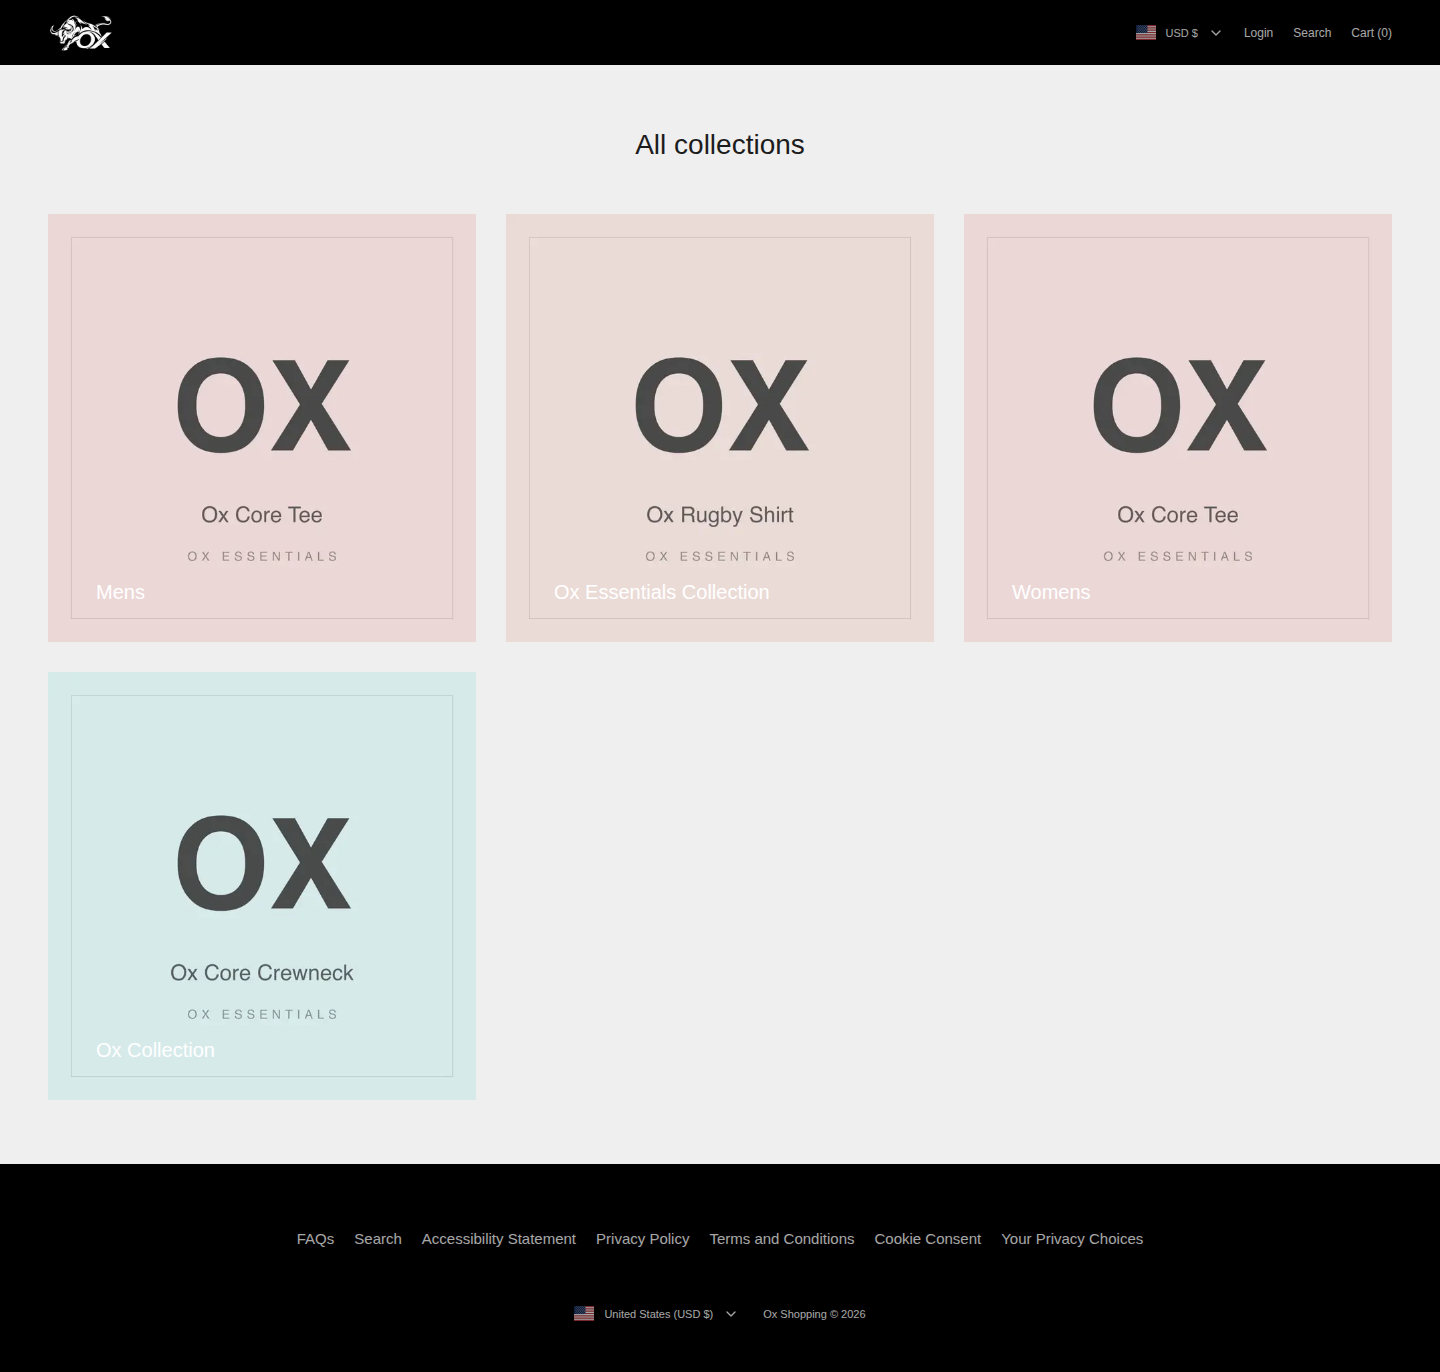
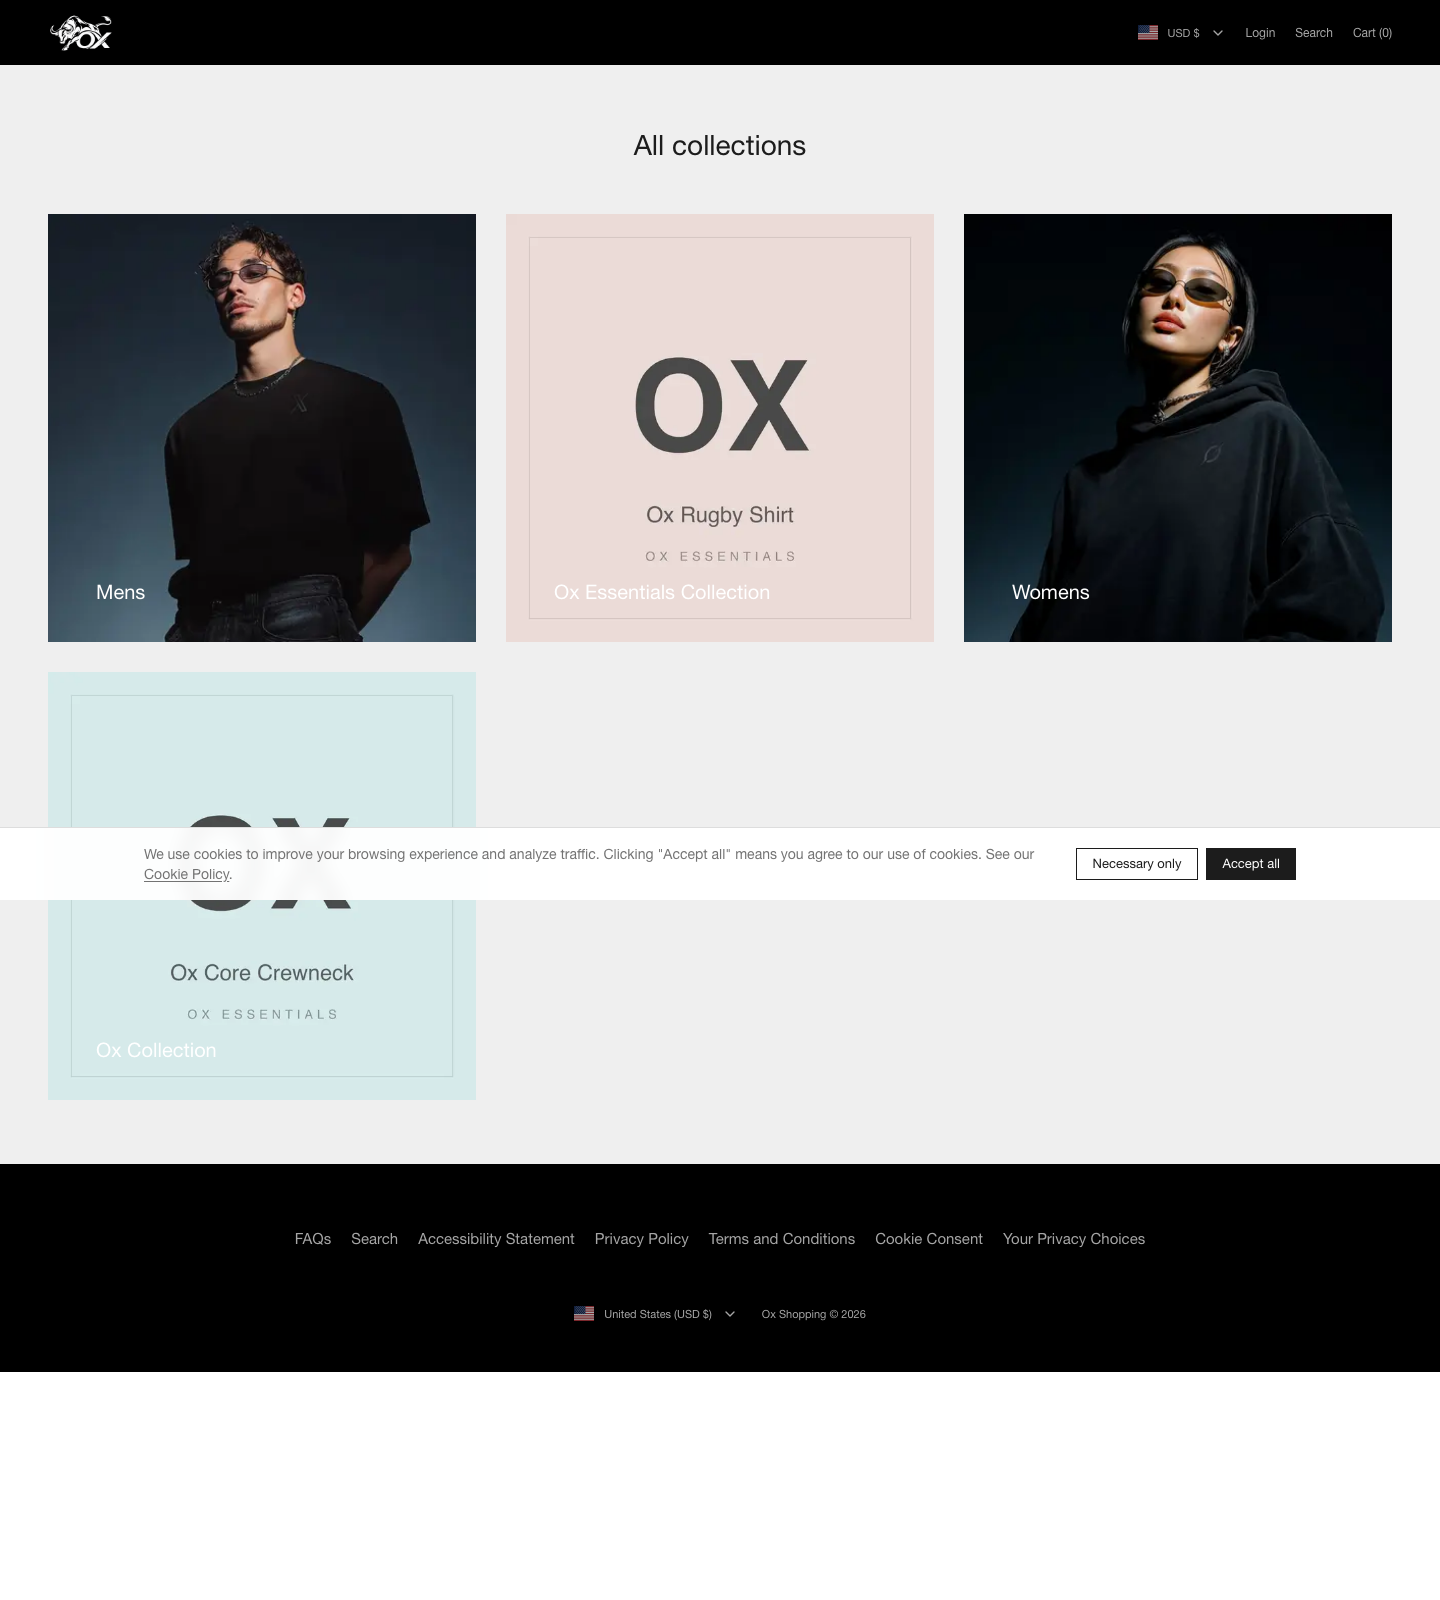
docs: 截图全量统一重拍——前台 1440×1600 / 后台 1440×900，同一会话渲染
- 十五张全部同一会话生产构建实拍（同服务器/浏览器/种子/英文界面）
- 前台六张统一 1440×1600：长页顶裁、短页白底补齐（GitHub 白底上不可见）
- 后台九张统一 1440×900 视口规格
- README 画廊重排 3×2 网格；全部过品红扫描零污染
- 顺修 PDP 品红问题根因记录（Playwright mask 渲染色）

diff --git a/README.md b/README.md
@@ -49,19 +49,16 @@
 
 ## 🖼 界面预览
 
-**商城首页**（顶栏多币种切换 · hover 双图切换商品卡）：
+同一会话生产构建真实渲染，六张统一 **1440×1600** 规格（顶栏多币种切换 · hover 双图切换商品卡）：
 
-![首页](docs/screenshots/home.png)
-
-| 商品列表（PLP） | 商品详情（PDP） |
-| :---: | :---: |
-| ![商品列表](docs/screenshots/plp.png) | ![商品详情](docs/screenshots/pdp.png) |
-
-| 集合索引 | 搜索弹层 | 购物车空态 |
+| 首页 | 集合索引 | 搜索弹层 |
 | :---: | :---: | :---: |
-| ![集合页](docs/screenshots/collections.png) | ![搜索弹层](docs/screenshots/search.png) | ![购物车](docs/screenshots/cart.png) |
+| ![首页](docs/screenshots/home.png) | ![集合索引](docs/screenshots/collections.png) | ![搜索弹层](docs/screenshots/search.png) |
+| 商品列表（PLP） | 商品详情（PDP） | 购物车空态 |
+| :---: | :---: | :---: |
+| ![商品列表](docs/screenshots/plp.png) | ![商品详情](docs/screenshots/pdp.png) | ![购物车空态](docs/screenshots/cart.png) |
 
-> 截图取自 Playwright 视觉回归基线（`tests/e2e/__screenshots__/`），CI 的 E2E 环节每次运行自动比对，界面回归即时拦截。
+> 截图与 CI 视觉回归基线同源同风格；基线的采集与更新流程见 [docs/testing.md](docs/testing.md)。后台界面截图见 [docs/admin-guide.md](docs/admin-guide.md)（九张统一 1440×900 规格）。
 
 ---
 

diff --git a/CHANGELOG.md b/CHANGELOG.md
@@ -14,6 +14,14 @@
 
 > 目标：外人拿到仓库即可自助上手——常青文档 + 真实截图 + 导航，取代带日期的内部叙事文档。
 
+- **截图全量统一重拍**（验收反馈：此前六张前台图六种高度、拍法混用、平台混拍）：
+  十五张全部出自同一会话的生产构建真实渲染（同服务器/浏览器/种子数据/英文界面）；
+  前台六张统一 **1440×1600**（长页顶部裁切、短页白底补齐——白底在 GitHub 白页上
+  不可见，表格视觉整齐），后台九张统一 **1440×900** 视口规格；README 画廊重排为
+  3×2 网格；全部过品红扫描（Playwright mask 渲染色）零污染。
+- PDP 门面图去品红：视觉基线里 "You may also like" 区被 Playwright mask（业务上
+  不锁基线），mask 渲染色即 rgb(255,0,255) 品红——直接搬进 README 当门面图成了
+  半屏粉。换成真实全页截图（推荐区实拍商品卡）。
 - 新增常青文档六份 + 导航中心（[docs/README.md](docs/README.md)）：
   · [架构说明](docs/architecture.md)——组件关系、请求生命周期、认证机制、核心 ER 图、
     CI 流水线（Mermaid 全套）；

diff --git a/docs/README.md b/docs/README.md
@@ -27,7 +27,7 @@
 
 ## 截图索引
 
-前台截图（来自 CI 平台的 Playwright 真实渲染）：
+前台截图（同一会话生产构建真实渲染，统一 1440×1600 规格）：
 
 | 截图 | 文件 |
 | --- | --- |
